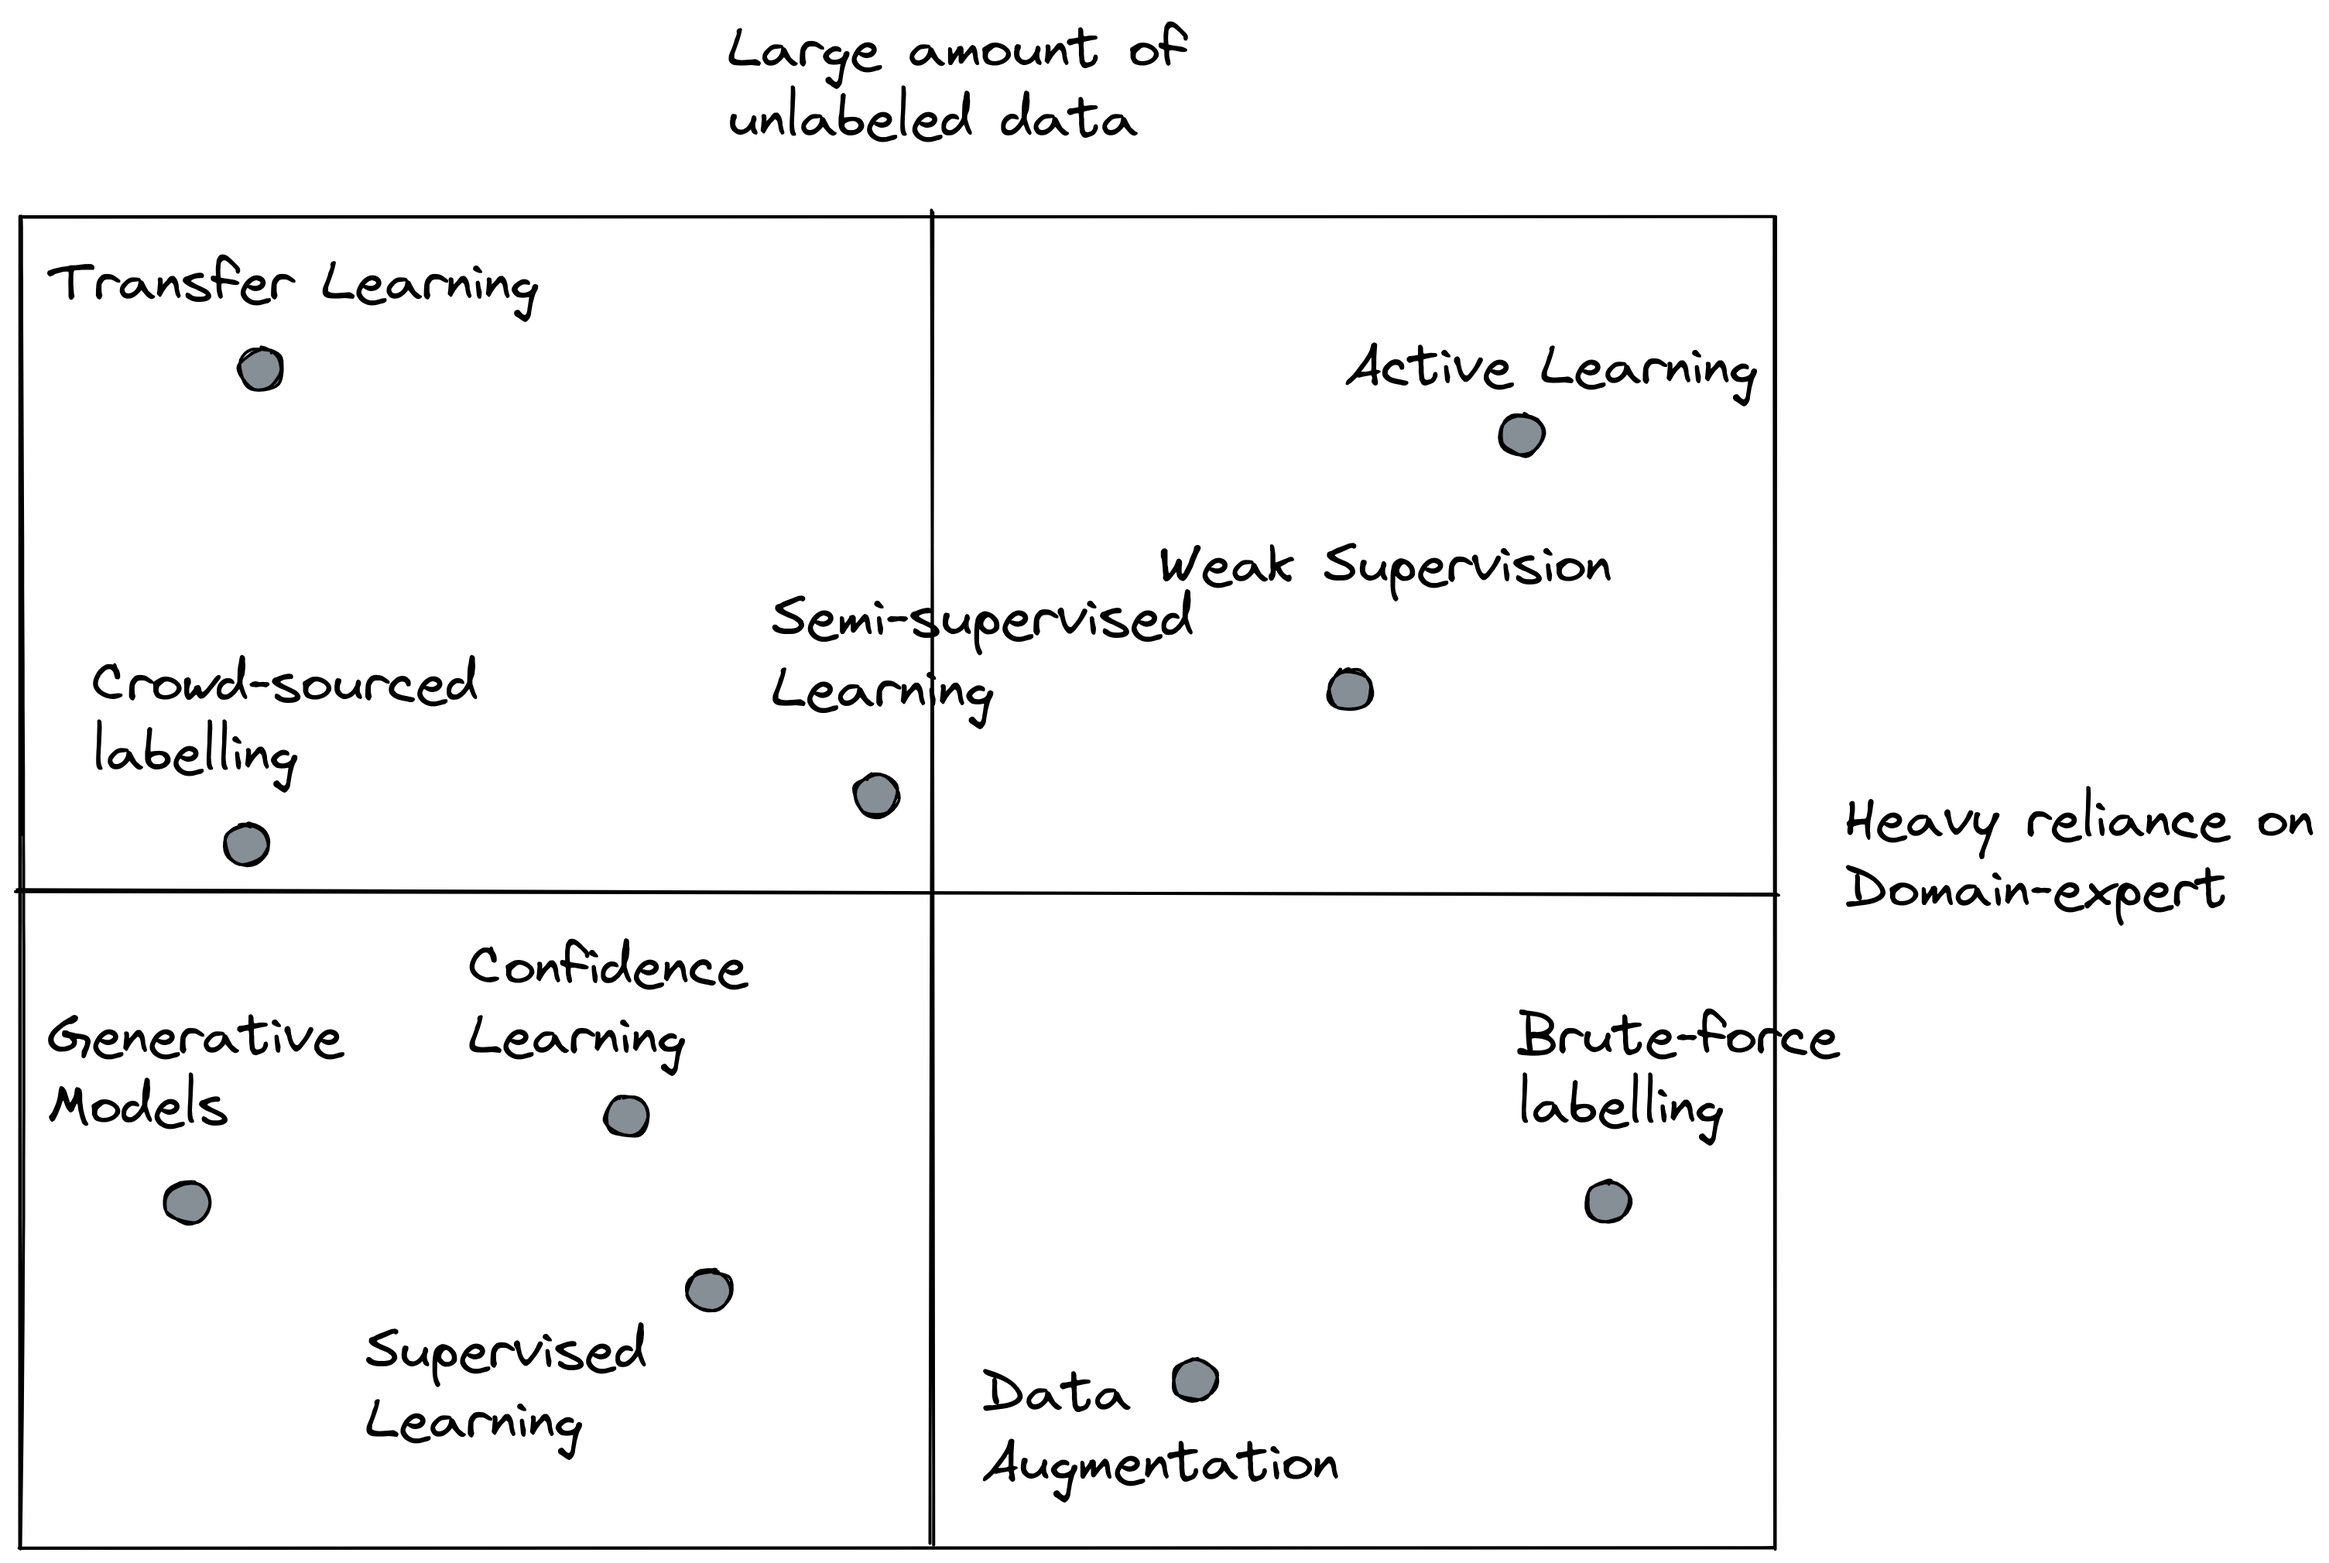
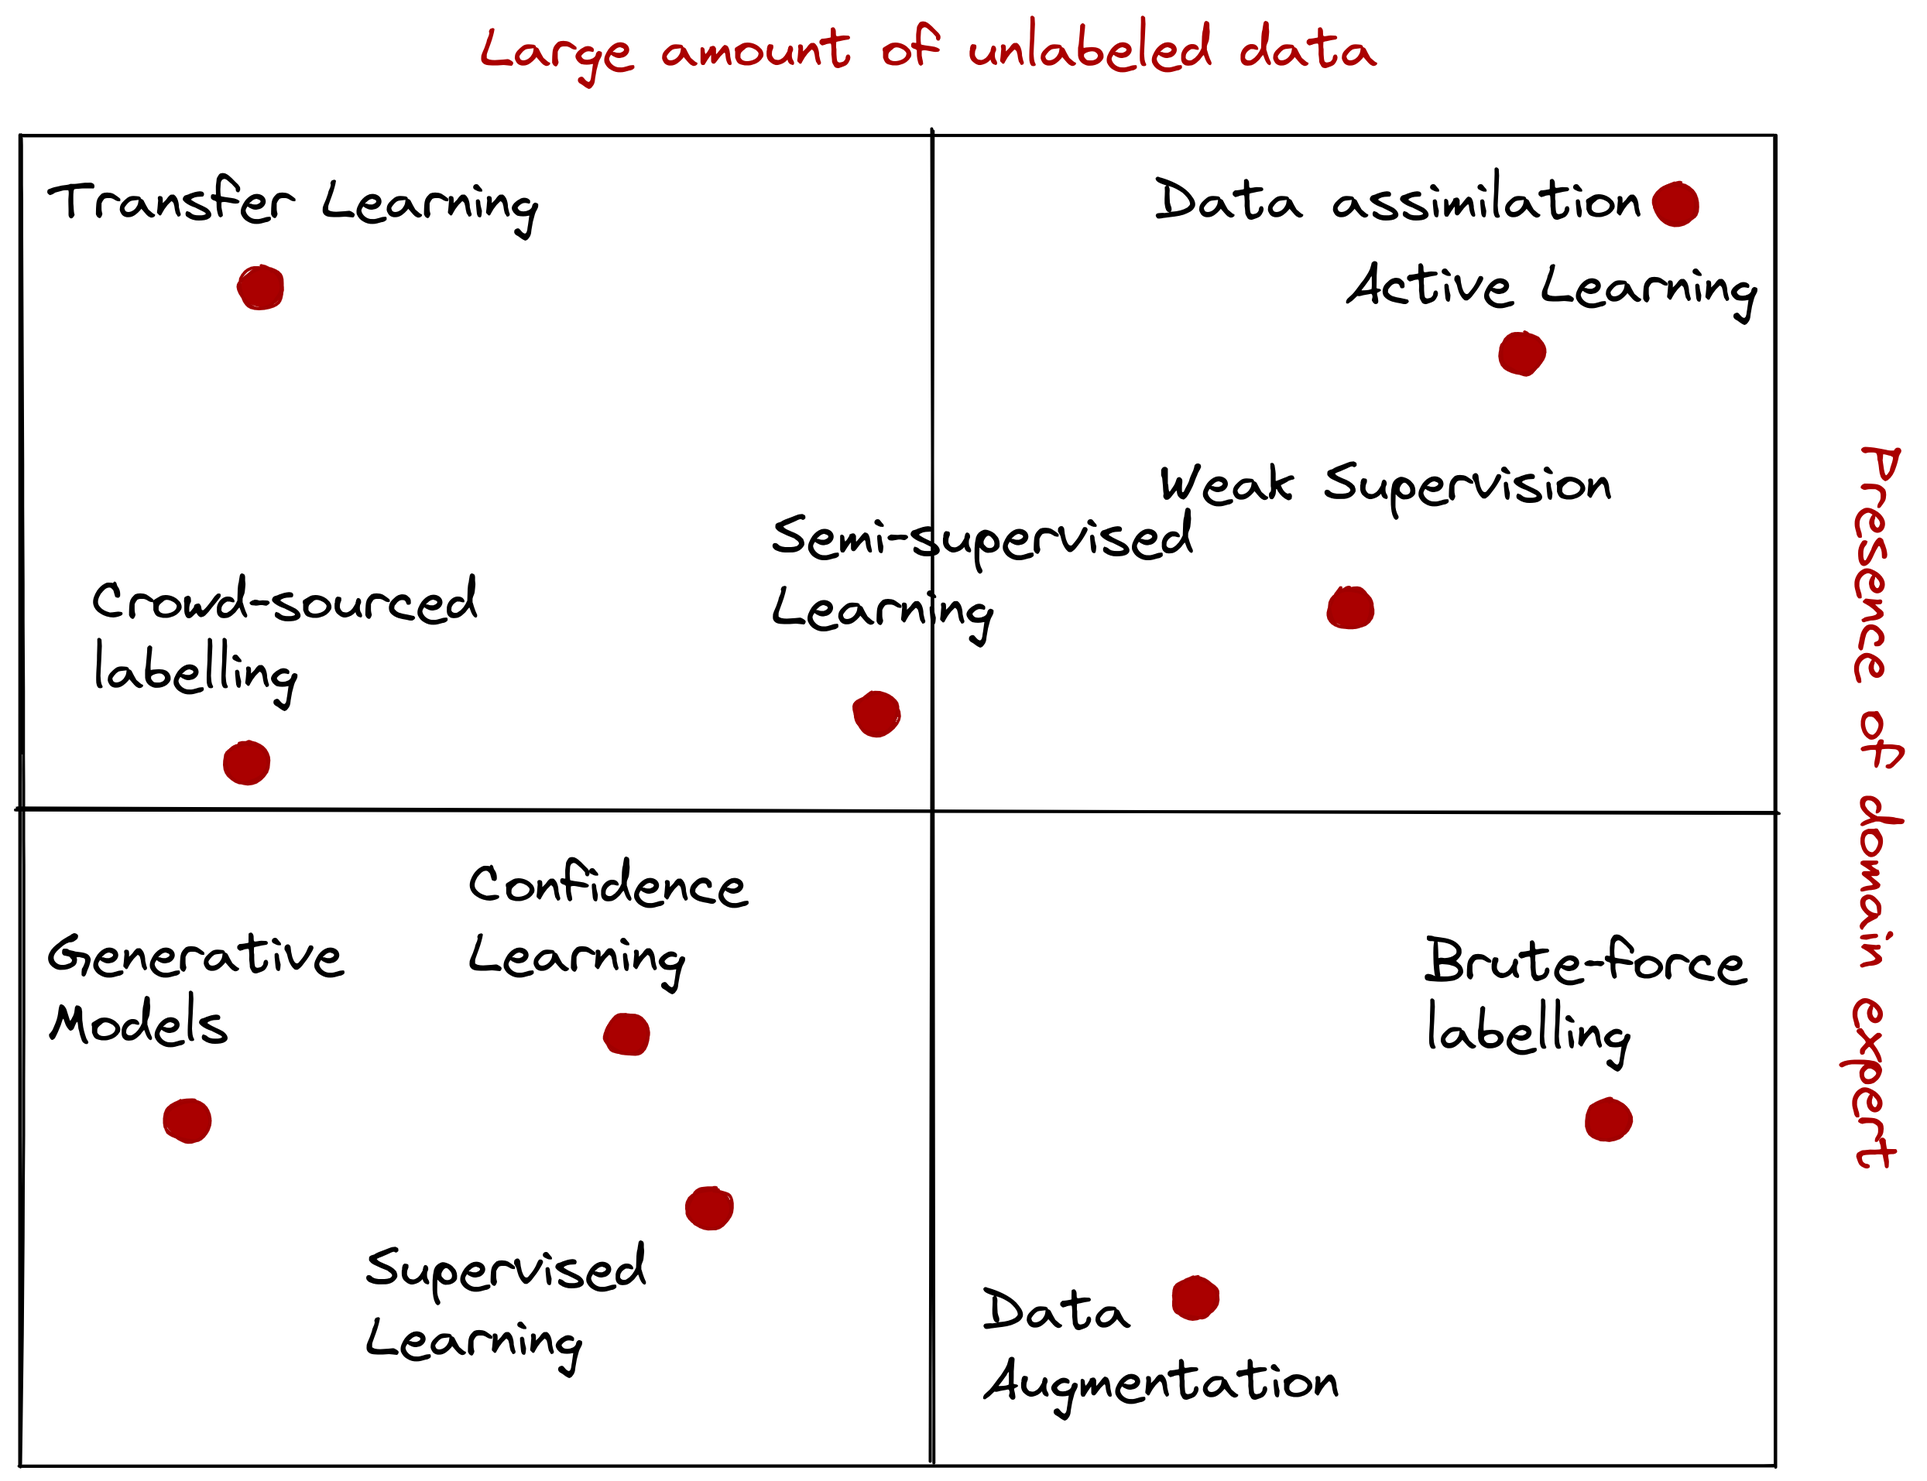
[wip] Update

diff --git a/notebook/_posts/2021-07-30-data-centric-ml.md b/notebook/_posts/2021-07-30-data-centric-ml.md
@@ -1,7 +1,7 @@
 ---
 layout: post
 type: post
-title: "Towards data-centric machine learning"
+title: "Towards data-centric machine learning: a literature review"
 date: 2021-07-30
 category: notebook
 comments: true
@@ -10,17 +10,20 @@ published: true
 tags: [machine learning, andrew ng, data centric, active learning, semi-supervised learning, weak supervision, prodigy, snorkel]
 description: |
     Data-centric machine learning shifts the focus from fiddling model
-    hyperparameters, to ensuring quality data across all. Here, I discuss
-    the trends, challenges, and opportunities to achieve this paradigm.
+    hyperparameters, to ensuring quality data across all. This post is a
+    literature review on various methods, approaches, and techniques to achieve
+    this paradigm.
 excerpt: |
     Data-centric machine learning shifts the focus from fiddling model
-    hyperparameters, to ensuring quality data across all. Here, I discuss
-    the trends, challenges, and opportunities to achieve this paradigm.
+    hyperparameters, to ensuring quality data across all. This post is a
+    literature review on various methods, approaches, and techniques to achieve
+    this paradigm.
 ---
 
 > Data-centric machine learning shifts the focus from fiddling model
-> hyperparameters, to ensuring quality data across all. In this post, I discuss
-> the trends, challenges, and opportunities to achieve this paradigm.
+> hyperparameters, to ensuring quality data across all. This post is a
+> literature review on various methods, approaches, and techniques to achieve
+> this paradigm.
 
 <span class="firstcharacter">A</span> few months ago, Andrew Ng [launched his
 campaign](https://www.youtube.com/watch?v=06-AZXmwHjo) for a more data-centric
@@ -65,7 +68,7 @@ a data-centric approach:**
     data-versioning, "smart" labelling, and tracking.[^2] Data-centric machine
     learning can definitely take advantage of these developments.
 
-In the industy, a data-centric approach is appealing. **Data tend to have a
+In the industry, a data-centric approach is appealing. **Data tend to have a
 longer lifespan and a larger impact surface area.** Aside from using them as
 raw materials for training models, one can create other artifacts like dashboards or
 visualizations to drive important decisions. With the advent of [open
@@ -75,19 +78,61 @@ susceptible to concept drift, and is only good on what it was built for
 ([Tsymbal, 2004](tsymbal2004drift), [Žliobaitė, 2010](zliobaite2010drift), and
 [Sambasivan, 2021](sambasivan2021data)).
 
-*So what can be done to improve the quality of our datasets?*
+*So what is the general strategy for data-centric machine learning?*
 
 ## <a id="optimizing"></a> Optimizing on what you have
 
-Almost all data work, prior to modelling, revolves around two elements: (1)
-your domain-expert and (2) your data. We can think of their relationship as
-such:
+Almost all data work, prior to modelling, revolves around two elements: (1) the
+domain-expert and (2) the data. It is possible that one exists without the
+other, that's why it's important to **optimize on what you have.** If both exist,
+then we can think of their relationship as *symbiotic*:
 
 ![](/assets/png/data-centric/domain_expert_data.png){:width="460px"}
 {: style="text-align: center;"}
 
-* **Domain expert provides data**
-* **Data inform the domain expert**
+Domain experts collect data, and in turn, data inform the expert ([Gennatas,
+2020](gennatas2020expert)). Both are
+enriched in the process: more data is provided, while the domain expert expands
+their knowledge of the field[^3] (this in turn generates insights, decisions, and
+such). 
+
+From a modelling perspective, it is much better if the dataset is curated,
+i.e., it's *labeled.* This means that meaningful information is attached to a
+given set of attributes. It then becomes straightforward to feed it into a
+machine learning model. 
+
+For a set of $$N$$ examples $$\{(x_1, y_1), \dots (x_N,
+y_N)\}$$ where $$x_i$$ is a feature vector and $$y_i$$ is its label, we can
+learn a function $$g: X \rightarrow Y$$ such that $$g$$ returns the $$y$$ value
+giving the highest score $$g(x) = argmax_y f(x,y)$$ (where $$f$$ is a scoring
+function).
+
+In an ideal state, you have plenty of domain experts and labeled data. But in
+reality, there are some challenges that organizations face when they lack one or
+the other:
+
+* **Little to no domain experts**: it then becomes difficult to label
+    everything with quality. In addition, one can fall into the trap of blindly
+    applying ML techniques without the relevant insight and data quality
+    assurance an expert can provide. 
+
+* **Little to no labeled data**: this time, it's challenging to train supervised
+    models if the use-case demands for it. Labelling datasets can also become
+    tedious, with or without the presence of domain experts. However, ML has
+    progressed enough to understand unsupervised data, so it's still possible
+    to extract value on the given dataset.
+
+The (i) presence or (ii) absence of (1) domain experts and (2) labeled data
+creates a **quadrant representing four (4) general directions for a data-centric
+approach.** Fortunately, the field has matured quite enough that we can
+describe tactical procedures for each direction as illustrated below: 
+
+![](/assets/png/data-centric/magic_quadrant.png){:width="520px"}
+{: style="text-align: center;"}
+
+In the next section, I will survey approaches that fall under each quadrant.
+This may range from methods that you might see in a typical ML research
+conference, or tools used in an organization. 
 
 
 ## References
@@ -95,6 +140,7 @@ such:
 * <a id="bell2021pysch">Bell, S.J. and Kampman, O.P.,</a> 2021. Perspectives on Machine Learning from Psychology's Reproducibility Crisis. *arXiv preprint arXiv:2104.08878*.
 * <a id="sculley2019winner">Sculley, D., Snoek, J., Wiltschko, A. and Rahimi, A.,</a> 2018. Winner's curse? On pace, progress, and empirical rigor.
 * <a id="brown2020gpt3">Brown, T.B., Mann, B., Ryder, N., Subbiah, M., Kaplan, J., Dhariwal, P., Neelakantan, A., Shyam, P., Sastry, G., Askell, A. and Agarwal, S.,</a> 2020. Language models are few-shot learners. *arXiv preprint arXiv:2005.14165*.
+* <a id="gennatas2020expert">Gennatas, E.D., Friedman, J.H., Ungar, L.H., Pirracchio, R., Eaton, E., Reichmann, L.G., Interian, Y., Luna, J.M., Simone, C.B., Auerbach, A. and Delgado, E.,</a> 2020. Expert-augmented machine learning. Proceedings of the National Academy of Sciences, 117(9), pp.4571-4577.
 * <a id="henderson2019deeprl">Henderson, P., Islam, R., Bachman, P., Pineau, J., Precup, D. and Meger, D.,</a> 2018, April. Deep reinforcement learning that matters. In *Proceedings of the AAAI Conference on Artificial Intelligence* (Vol. 32, No. 1).
 * <a id="lipton2019trends">Lipton, Z.C. and Steinhardt, J.,</a> 2019. Research for practice: troubling trends in machine-learning scholarship. *Communications of the ACM*, 62(6), pp.45-53.
 * <a id="sambasivan2021data">Sambasivan, N., Kapania, S., Highfill, H., Akrong, D., Paritosh, P. and Aroyo, L.M.,</a> 2021, May. “Everyone wants to do the model work, not the data work”: Data Cascades in High-Stakes AI. In *proceedings of the 2021 CHI Conference on Human Factors in Computing Systems* (pp. 1-15).
@@ -107,3 +153,4 @@ such:
 
 [^1]: HARK-ing, refers to the research practice of hypothesizing after the results are known. Norbert Kerr defined it as "presenting a post hoc hypothesis in the introduction of a research report as if it were an a priori hypothesis"
 [^2]: Examples of labelling tools: [Prodigy](https://prodi.gy/), [Snorkel](https://snorkel.ai/), [Label Studio](https://labelstud.io/). Examples of data-versioning and tracking (lineage) tools: [MLFlow](https://mlflow.org/), [DVC](https://dvc.org/), [Pachyderm](https://www.pachyderm.com/). 
+[^3]: That's why I still think that ML practitioners who came from a non-ML field (psychologists, sociologists, economists, etc.) are at an advantage: they have an intimate knowledge of the field, and see ML as a tool.
